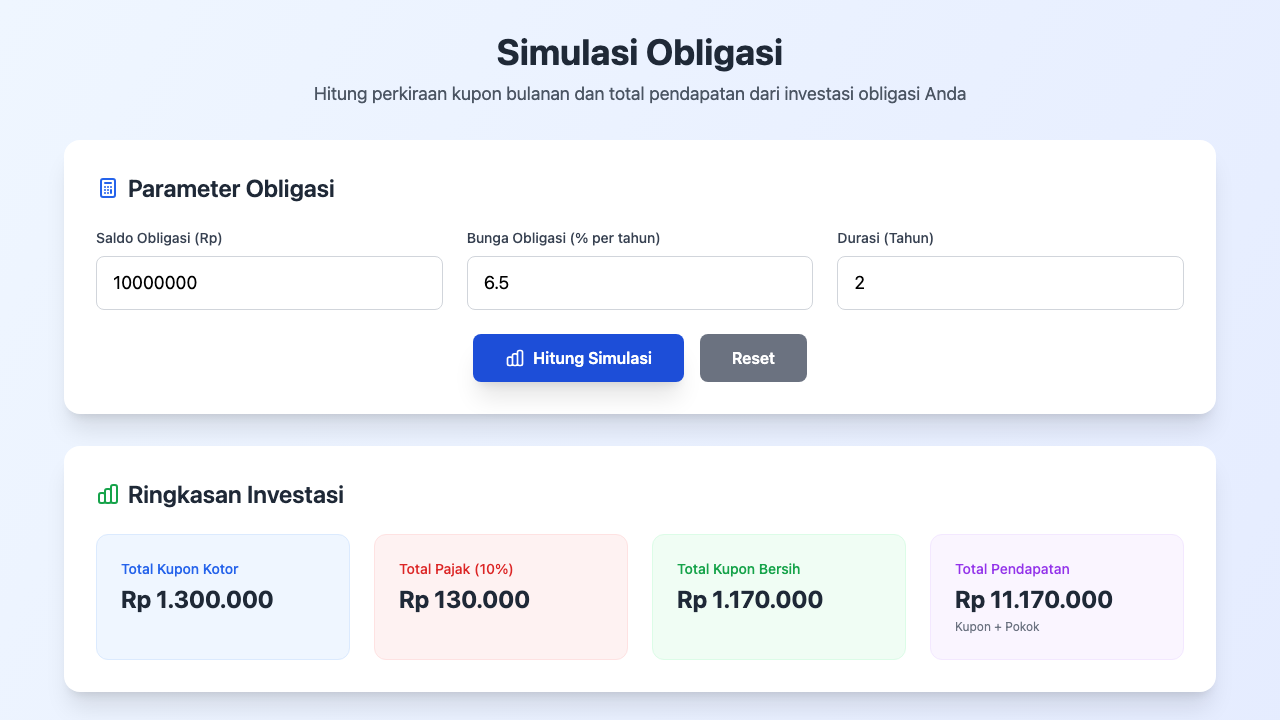
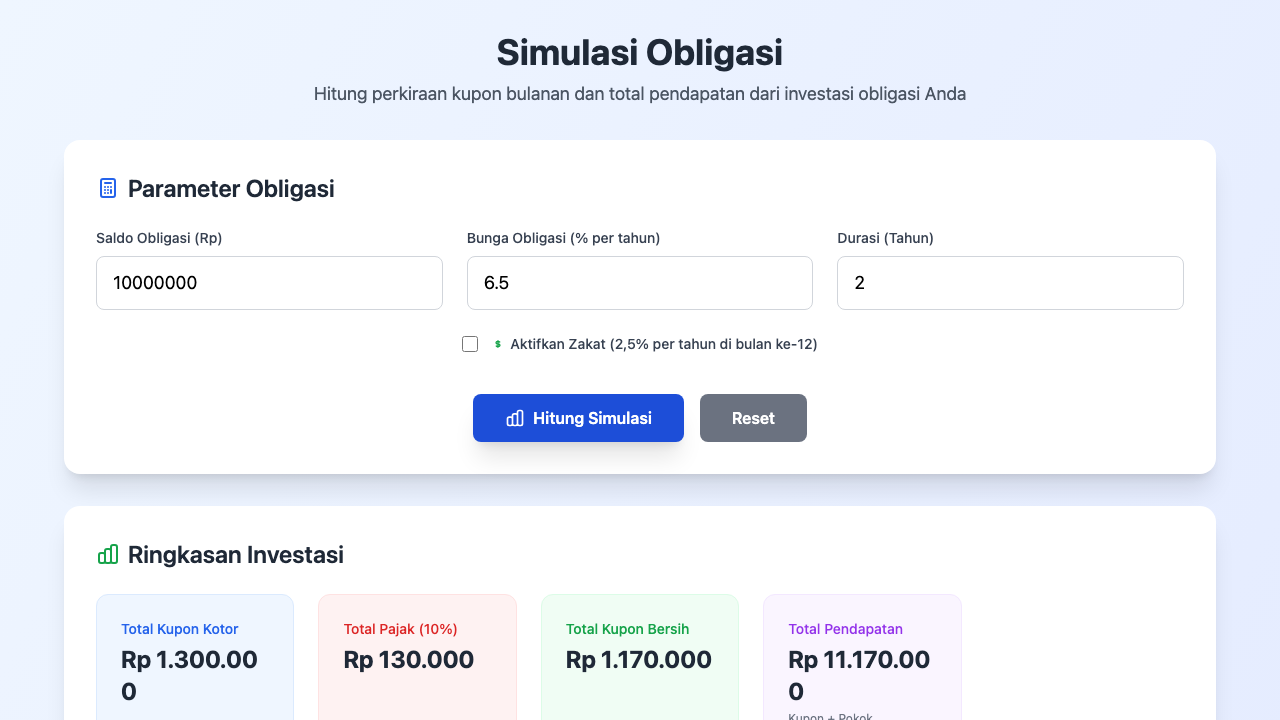
**Add Zakat Feature to Obligasi Simulation**
- Introduce "Zakat" toggle, allowing users to deduct 2.5% of total funds annually in month 12.
- Update simulation logic to calculate and display zakat deductions within detailed results.
- Modify UI to include zakat in financial summaries and detailed breakdowns, along with a new "Total Zakat" card.
- Expand Playwright tests to cover zakat functionality, ensuring correct calculations and UI updates.

Changed region(s): [[0.0312, 0.4583, 0.9688, 0.7028], [0.0312, 0.7333, 0.9688, 1.0], [0.75, 0.7639, 0.875, 0.8861]]

diff --git a/src/routes/obligasi/+page.svelte b/src/routes/obligasi/+page.svelte
@@ -2,6 +2,7 @@
 	let saldoObligasi = $state(0);
 	let bungaObligasi = $state(0);
 	let durasiObligasi = $state(0);
+	let zakatEnabled = $state(false);
 	let hasil = $state(null);
 
 	function hitungSimulasi() {
@@ -16,21 +17,39 @@
 		const kuponBersih = kuponBulanan - pajakObligasi;
 		const totalBulan = durasiObligasi * 12;
 
+		// Track running total for zakat calculation
+		let runningTotal = saldoObligasi;
+		let totalZakat = 0;
+
 		// Generate data per bulan
 		const detailBulanan = [];
 		for (let i = 1; i <= totalBulan; i++) {
+			// Add monthly kupon to running total
+			runningTotal += kuponBersih;
+			
+			// Calculate zakat for bulan ke-12 every year (if enabled)
+			let zakatBulanIni = 0;
+			if (zakatEnabled && i % 12 === 0) {
+				zakatBulanIni = runningTotal * 0.025; // 2.5% zakat
+				runningTotal -= zakatBulanIni;
+				totalZakat += zakatBulanIni;
+			}
+
 			detailBulanan.push({
 				bulan: i,
 				kuponKotor: kuponBulanan,
 				pajak: pajakObligasi,
-				kuponBersih: kuponBersih
+				kuponBersih: kuponBersih,
+				zakat: zakatBulanIni,
+				totalDana: runningTotal
 			});
 		}
 
 		const totalKuponKotor = kuponBulanan * totalBulan;
 		const totalPajak = pajakObligasi * totalBulan;
 		const totalKuponBersih = kuponBersih * totalBulan;
-		const totalPendapatan = totalKuponBersih + saldoObligasi;
+		const totalPendapatanSebelumZakat = totalKuponBersih + saldoObligasi;
+		const totalPendapatan = totalPendapatanSebelumZakat - totalZakat;
 
 		hasil = {
 			detailBulanan,
@@ -38,8 +57,10 @@
 				totalKuponKotor,
 				totalPajak,
 				totalKuponBersih,
+				totalZakat,
 				saldoPokok: saldoObligasi,
-				totalPendapatan
+				totalPendapatan,
+				zakatEnabled
 			}
 		};
 	}
@@ -57,6 +78,7 @@
 		saldoObligasi = 0;
 		bungaObligasi = 0;
 		durasiObligasi = 0;
+		zakatEnabled = false;
 		hasil = null;
 	}
 </script>
@@ -146,6 +168,24 @@
 					/>
 				</div>
 
+				<!-- Zakat Toggle -->
+				<div class="md:col-span-3 flex justify-center mb-4">
+					<div class="flex items-center space-x-3">
+						<input
+							id="zakat-toggle"
+							type="checkbox"
+							bind:checked={zakatEnabled}
+							class="w-4 h-4 text-green-600 bg-gray-100 border-gray-300 rounded focus:ring-green-500 focus:ring-2"
+						/>
+						<label for="zakat-toggle" class="text-sm font-medium text-gray-700 flex items-center">
+							<svg class="w-4 h-4 mr-1 text-green-600" fill="none" stroke="currentColor" viewBox="0 0 24 24">
+								<path stroke-linecap="round" stroke-linejoin="round" stroke-width="2" d="M12 8c-1.657 0-3 .895-3 2s1.343 2 3 2 3 .895 3 2-1.343 2-3 2m0-8c1.11 0 2.08.402 2.599 1M12 8V7m0 1v8m0 0v1m0-1c-1.11 0-2.08-.402-2.599-1"></path>
+							</svg>
+							Aktifkan Zakat (2,5% per tahun di bulan ke-12)
+						</label>
+					</div>
+				</div>
+
 				<div class="md:col-span-3 flex gap-4 justify-center">
 					<button
 						type="submit"
@@ -194,7 +234,7 @@
 						Ringkasan Investasi
 					</h2>
 
-					<div class="grid grid-cols-1 md:grid-cols-2 lg:grid-cols-4 gap-6">
+					<div class="grid grid-cols-1 md:grid-cols-2 lg:grid-cols-5 gap-6">
 						<div class="bg-blue-50 p-6 rounded-xl border border-blue-100">
 							<div class="text-blue-600 text-sm font-medium">Total Kupon Kotor</div>
 							<div id="kupon-kotor-amount" class="text-lg md:text-xl lg:text-2xl font-bold text-gray-800 mt-1 break-words leading-tight">
@@ -213,12 +253,20 @@
 								{formatRupiah(hasil.summary.totalKuponBersih)}
 							</div>
 						</div>
+						{#if hasil.summary.zakatEnabled}
+							<div class="bg-orange-50 p-6 rounded-xl border border-orange-100">
+								<div class="text-orange-600 text-sm font-medium">Total Zakat (2,5%)</div>
+								<div id="zakat-amount" class="text-lg md:text-xl lg:text-2xl font-bold text-gray-800 mt-1 break-words leading-tight">
+									{formatRupiah(hasil.summary.totalZakat)}
+								</div>
+							</div>
+						{/if}
 						<div class="bg-purple-50 p-6 rounded-xl border border-purple-100">
 							<div class="text-purple-600 text-sm font-medium">Total Pendapatan</div>
 							<div id="total-pendapatan-amount" class="text-lg md:text-xl lg:text-2xl font-bold text-gray-800 mt-1 break-words leading-tight">
 								{formatRupiah(hasil.summary.totalPendapatan)}
 							</div>
-							<div class="text-xs text-gray-500 mt-1">Kupon + Pokok</div>
+							<div class="text-xs text-gray-500 mt-1">{hasil.summary.zakatEnabled ? 'Kupon + Pokok - Zakat' : 'Kupon + Pokok'}</div>
 						</div>
 					</div>
 				</div>
@@ -268,6 +316,18 @@
 									>
 										Kupon Bersih
 									</th>
+									{#if hasil.summary.zakatEnabled}
+										<th
+											class="px-6 py-4 text-right text-xs font-medium text-gray-500 uppercase tracking-wider"
+										>
+											Zakat (2,5%)
+										</th>
+									{/if}
+									<th
+										class="px-6 py-4 text-right text-xs font-medium text-gray-500 uppercase tracking-wider"
+									>
+										Total Dana
+									</th>
 								</tr>
 							</thead>
 							<tbody class="bg-white divide-y divide-gray-200">
@@ -286,6 +346,14 @@
 											class="px-6 py-4 whitespace-nowrap text-sm text-right font-medium text-green-600"
 										>
 											{formatRupiah(item.kuponBersih)}
+										</td>
+										{#if hasil.summary.zakatEnabled}
+											<td class="px-6 py-4 whitespace-nowrap text-sm text-right text-orange-600">
+												{item.zakat > 0 ? formatRupiah(item.zakat) : '-'}
+											</td>
+										{/if}
+										<td class="px-6 py-4 whitespace-nowrap text-sm text-right font-medium text-blue-600">
+											{formatRupiah(item.totalDana)}
 										</td>
 									</tr>
 								{/each}
@@ -315,6 +383,7 @@
 				</li>
 				<li>• Kupon dibayarkan setiap bulan dengan jumlah yang sama</li>
 				<li>• Total pendapatan sudah termasuk pengembalian pokok investasi</li>
+				<li>• Fitur zakat: mengurangi 2,5% dari total dana setiap bulan ke-12 (akhir tahun)</li>
 				<li>• Hasil simulasi bersifat ilustratif dan tidak termasuk biaya transaksi</li>
 			</ul>
 		</div>

diff --git a/e2e/obligasi.test.js b/e2e/obligasi.test.js
@@ -21,6 +21,10 @@ test.describe('Halaman Simulasi Obligasi', () => {
 		await expect(page.getByText('Bunga Obligasi (% per tahun)')).toBeVisible();
 		await expect(page.getByText('Durasi (Tahun)')).toBeVisible();
 
+		// Check zakat toggle
+		await expect(page.locator('#zakat-toggle')).toBeVisible();
+		await expect(page.getByText('Aktifkan Zakat (2,5% per tahun di bulan ke-12)')).toBeVisible();
+
 		// Check buttons
 		await expect(page.getByRole('button', { name: 'Hitung Simulasi' })).toBeVisible();
 		await expect(page.getByRole('button', { name: 'Reset' })).toBeVisible();
@@ -110,6 +114,83 @@ test.describe('Halaman Simulasi Obligasi', () => {
 		await expect(page.locator('#total-pendapatan-amount')).toContainText('Rp 12.648.000'); // Total pendapatan
 	});
 
+	test('simulasi dengan zakat enabled berfungsi dengan benar', async ({ page }) => {
+		// Ensure clean state by waiting for page to fully load
+		await page.waitForTimeout(200);
+		
+		// Test with 2 years to see zakat deduction in action
+		await page.locator('#saldo').fill('100000000'); // 100 juta
+		await page.locator('#bunga').fill('6'); // 6% per tahun
+		await page.locator('#durasi').fill('2'); // 2 tahun
+
+		// Enable zakat
+		await page.locator('#zakat-toggle').check();
+		await expect(page.locator('#zakat-toggle')).toBeChecked();
+
+		await page.getByRole('button', { name: 'Hitung Simulasi' }).click();
+
+		// Wait for results to appear
+		await expect(page.locator('text=Ringkasan Investasi')).toBeVisible({ timeout: 5000 });
+
+		// Check if zakat card is displayed
+		await expect(page.locator('#zakat-amount')).toBeVisible();
+
+		// Check table headers include zakat column
+		await expect(page.locator('th:has-text("Zakat (2,5%)")')).toBeVisible();
+		await expect(page.locator('th:has-text("Total Dana")')).toBeVisible();
+
+		// Check if zakat is deducted at month 12 and 24
+		await expect(page.getByRole('cell', { name: 'Bulan 12', exact: true })).toBeVisible();
+		await expect(page.getByRole('cell', { name: 'Bulan 24', exact: true })).toBeVisible();
+
+		// Total pendapatan should be less when zakat is enabled
+		const totalPendapatanText = await page.locator('#total-pendapatan-amount').textContent();
+		expect(totalPendapatanText).toContain('Rp');
+		
+		// Check the subtitle shows zakat deduction
+		await expect(page.getByText('Kupon + Pokok - Zakat')).toBeVisible();
+	});
+
+	test('simulasi tanpa zakat vs dengan zakat menunjukkan perbedaan', async ({ page }) => {
+		// Test without zakat first
+		await page.locator('#saldo').fill('50000000'); // 50 juta
+		await page.locator('#bunga').fill('8'); // 8% per tahun
+		await page.locator('#durasi').fill('1'); // 1 tahun
+
+		await page.getByRole('button', { name: 'Hitung Simulasi' }).click();
+		await expect(page.locator('text=Ringkasan Investasi')).toBeVisible({ timeout: 5000 });
+
+		// Without zakat - no zakat card should be visible
+		await expect(page.locator('#zakat-amount')).not.toBeVisible();
+		await expect(page.locator('th:has-text("Zakat (2,5%)")')).not.toBeVisible();
+		await expect(page.getByText('Kupon + Pokok')).toBeVisible();
+
+		// Get total pendapatan without zakat
+		const pendapatanTanpaZakat = await page.locator('#total-pendapatan-amount').textContent();
+
+		// Reset and test with zakat
+		await page.getByRole('button', { name: 'Reset' }).click();
+		
+		await page.locator('#saldo').fill('50000000'); // 50 juta
+		await page.locator('#bunga').fill('8'); // 8% per tahun  
+		await page.locator('#durasi').fill('1'); // 1 tahun
+		await page.locator('#zakat-toggle').check();
+
+		await page.getByRole('button', { name: 'Hitung Simulasi' }).click();
+		await expect(page.locator('text=Ringkasan Investasi')).toBeVisible({ timeout: 5000 });
+
+		// With zakat - zakat card should be visible
+		await expect(page.locator('#zakat-amount')).toBeVisible();
+		await expect(page.locator('th:has-text("Zakat (2,5%)")')).toBeVisible();
+		await expect(page.getByText('Kupon + Pokok - Zakat')).toBeVisible();
+
+		// Get total pendapatan with zakat
+		const pendapatanDenganZakat = await page.locator('#total-pendapatan-amount').textContent();
+
+		// They should be different (pendapatan dengan zakat should be less)
+		expect(pendapatanDenganZakat).not.toBe(pendapatanTanpaZakat);
+	});
+
 	test('tombol reset berfungsi dengan benar', async ({ page }) => {
 		// Ensure form is rendered
 		await expect(page.locator('#saldo')).toBeVisible({ timeout: 10000 });
@@ -123,11 +204,15 @@ test.describe('Halaman Simulasi Obligasi', () => {
 		await page.locator('#bunga').fill('7');
 		await page.locator('#durasi').clear();
 		await page.locator('#durasi').fill('3');
+		
+		// Enable zakat toggle
+		await page.locator('#zakat-toggle').check();
 
 		// Ensure values are actually set before submitting (avoids flakiness)
 		await expect(page.locator('#saldo')).toHaveValue('5000000');
 		await expect(page.locator('#bunga')).toHaveValue('7');
 		await expect(page.locator('#durasi')).toHaveValue('3');
+		await expect(page.locator('#zakat-toggle')).toBeChecked();
 
 		// Submit to show results with robust click handling
 		const submitBtn = page.getByRole('button', { name: 'Hitung Simulasi' });
@@ -154,6 +239,7 @@ test.describe('Halaman Simulasi Obligasi', () => {
 		await expect(page.locator('#saldo')).toHaveValue('0');
 		await expect(page.locator('#bunga')).toHaveValue('0');
 		await expect(page.locator('#durasi')).toHaveValue('0');
+		await expect(page.locator('#zakat-toggle')).not.toBeChecked();
 
 		// Check if results are hidden
 		await expect(page.getByText('Ringkasan Investasi')).not.toBeVisible();
@@ -221,6 +307,9 @@ test.describe('Halaman Simulasi Obligasi', () => {
 		).toBeVisible();
 		await expect(
 			page.getByText('Total pendapatan sudah termasuk pengembalian pokok investasi')
+		).toBeVisible();
+		await expect(
+			page.getByText('Fitur zakat: mengurangi 2,5% dari total dana setiap bulan ke-12')
 		).toBeVisible();
 		await expect(page.getByText('Hasil simulasi bersifat ilustratif')).toBeVisible();
 	});
